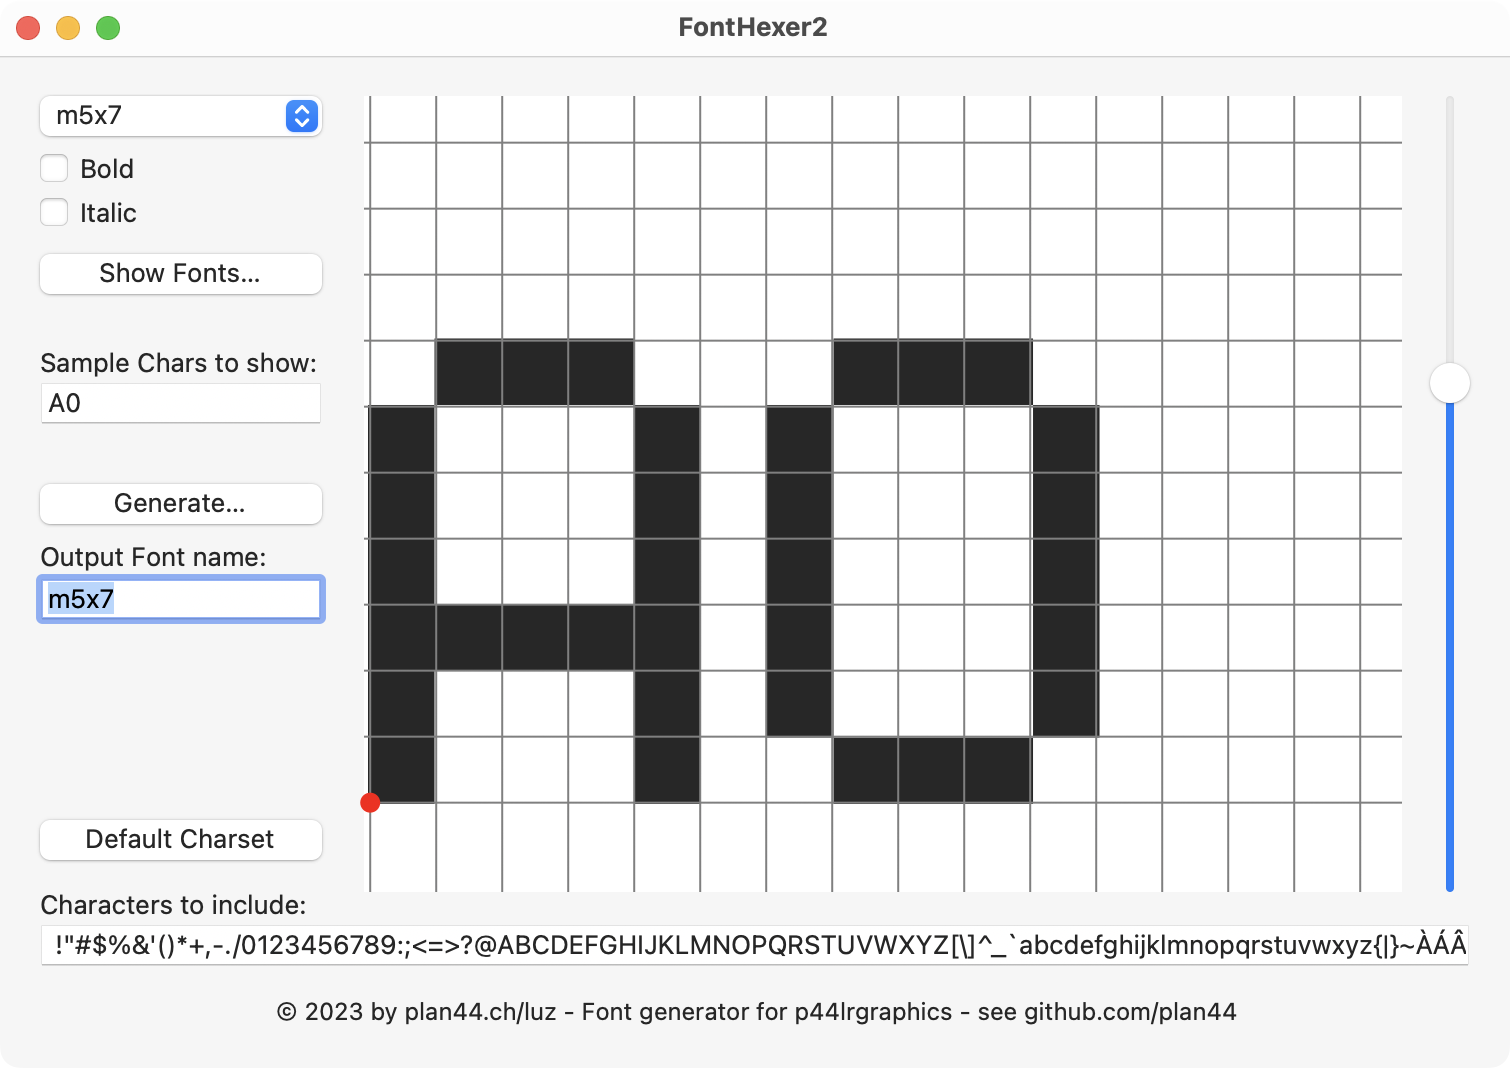
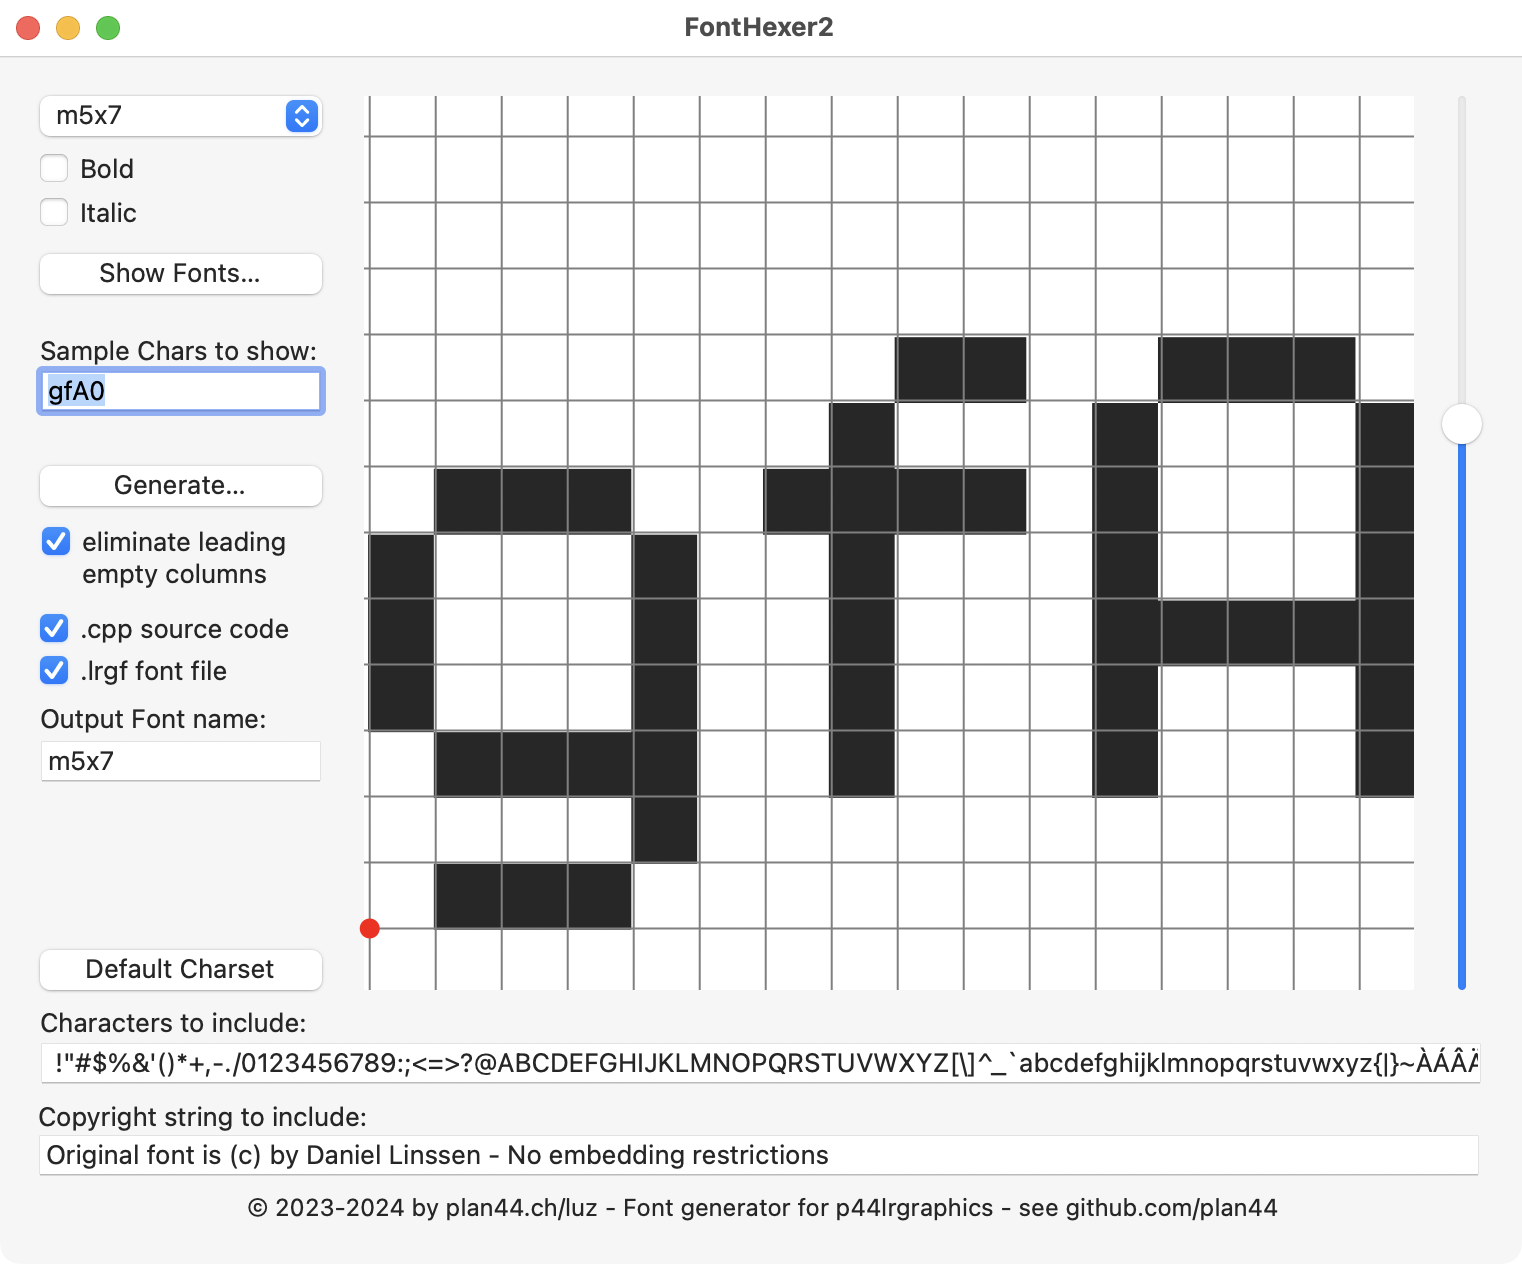
README: update for v1.1

Changed region(s): [[0.0, 0.0, 0.9649, 0.7725], [0.0311, 0.7416, 0.9649, 0.9888], [0.4358, 0.0, 0.5603, 0.0618]]

diff --git a/README.md b/README.md
@@ -1,11 +1,16 @@
 # FontHexer2
 
 FontHexer2 is a simple macOS app for converting fonts into "hex" (binary one-bit-per-pixel) representations for use in embedded devices with low-res pixel displays such as SmartLED (WS281x) chains.
-This works best for fonts that were originally designed for low resolutions, like retro fonts taken from or inspired from old computers and terminals.
 
-The current version of the app can only export the fonts as C++ source files suitable for use in [p44lrgraphics](https://github.com/plan44/p44lrgraphics) `TextView`. These can be of any height up to 64pixels max, and support variable character widths.
+This works best for fonts that were originally designed for low resolutions, like retro fonts taken or inspired from old computers and terminals.
 
-The app structure is such that adding different export formats would be simple, the sampling process is completely separated from the export (which is in the `P44FontGenerator` class)
+The current version of the app can export the fonts in two formats:
+- as .lrgf font files, which is the TLV binary format for loading fonts into [p44lrgraphics](https://github.com/plan44/p44lrgraphics) based projects (for example on a [P44-LC-X](https://plan44.ch/automation/p44-lc-x.php), you can use the `loadfont()` function in your p44scripts).
+- as C++ source files suitable for embedding in projects using [p44lrgraphics](https://github.com/plan44/p44lrgraphics) `TextView`, like [vdcd](https://github.com/plan44/vdcd).
+
+The fonts can be of any height up to 64pixels max, and support variable character widths.
+
+The app structure is such that adding other export formats would be simple; the sampling process is completely separated from the export (which is in the `P44FontGenerator` class)
 
 ![fonthexer2](assets/fonthexer2.png)
 
@@ -16,15 +21,18 @@ The app structure is such that adding different export formats would be simple, 
 - Drag the grid and place the red origin point at the bottom left corner (including descenders)
 - possibly modify the character set in the long line at the bottom, these are the characters that will be included in the output. Standard is ASCII 0x20..0x7E plus a few Central European accented characters.
 - possibly modify the font name for the output
-- press "Generate...", select where to generate the output file
-- To use/compile with p44lrgraphics, put the output file into the `p44lrgraphics/fonts` folder and modify the `fonts[]` table in `p44lrgraphics/textview.cpp` accordingly.
+- possibly add a copyright string to be contained in the output
+- select the output format(s)
+- press "Generate...", select where to generate the output file(s) (Note: takes several seconds due to not-at-all-speed-optimized implementation)
+- To embed in a p44lrgraphics project, put the output file into the `p44lrgraphics/fonts` folder and make sure they get compiled (add font.cpp to Makefile).
+- To load at runtime in a P44-xx environment, use the `loadfont()` function.
 
 ## How this app came to be
 
-The p44lgraphics export part is fully hand-coded C++, most of it adapted from existing code in `p44lgraphics/textview.cpp`.
+The p44lgraphics export part is fully hand-coded C++, most of it adapted from existing code in `p44lgraphics/fonts.cpp`.
 
 However the mac app itself is primarily the result of a conversation with ChatGPT 3.5. I have a firm understanding of the Cocoa concepts, but my practice is very dated and mostly iOS focused, so for every little UI detail I would have needed to research APIs and howtos. Asking the AI chatbot made this much easier - the suggested code usually worked out of the box. Only finetuning turned out to be more efficient to do manually (or leave for later, like proper fontpanel functioning) - the more detailed and specific my prompt was, the more the AI tended to hallucinate the APIs that *would* fit my needs - but don't exist.
 
 ---
 
-(c) 2023 by luz/plan44.ch
+(c) 2023-2024 by luz/plan44.ch
